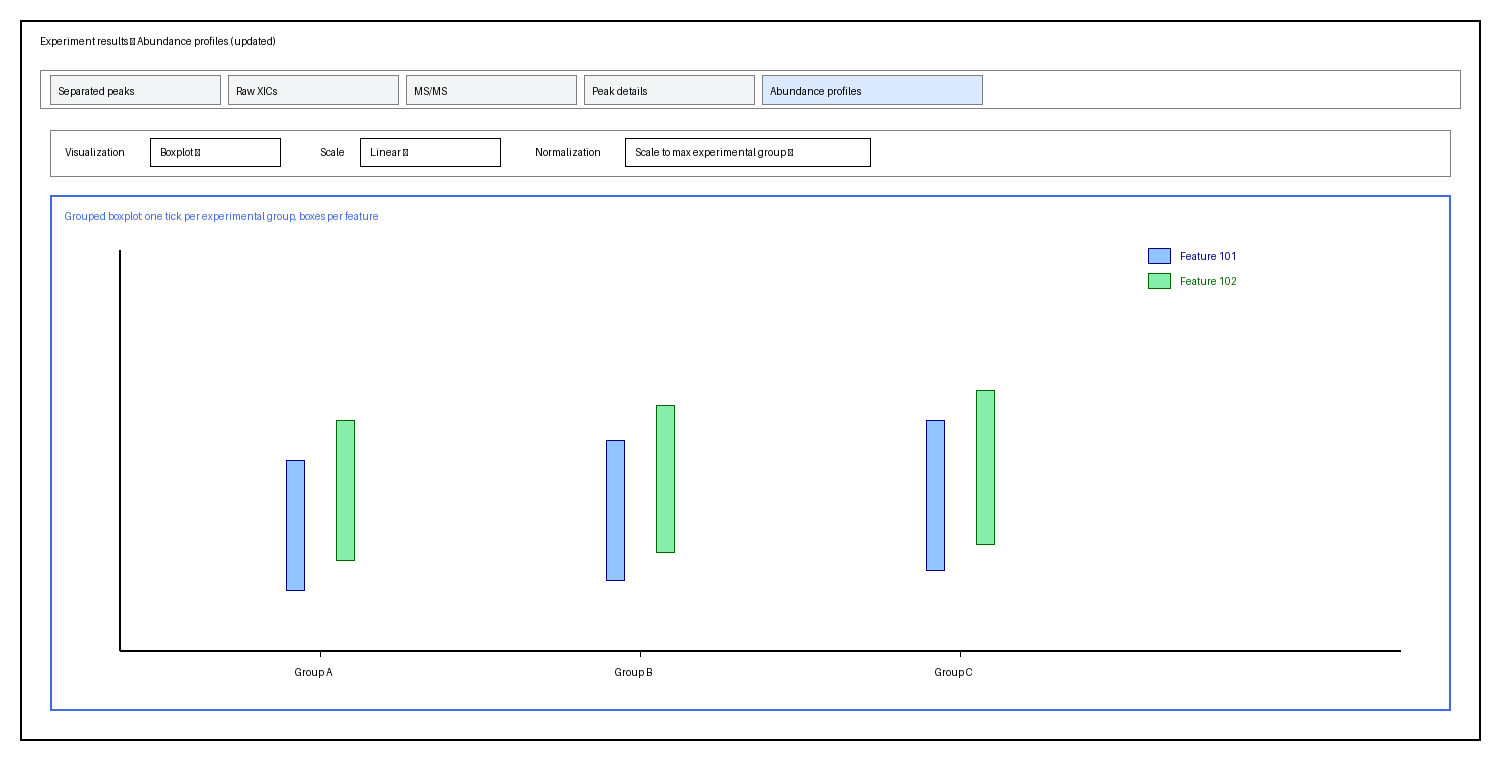
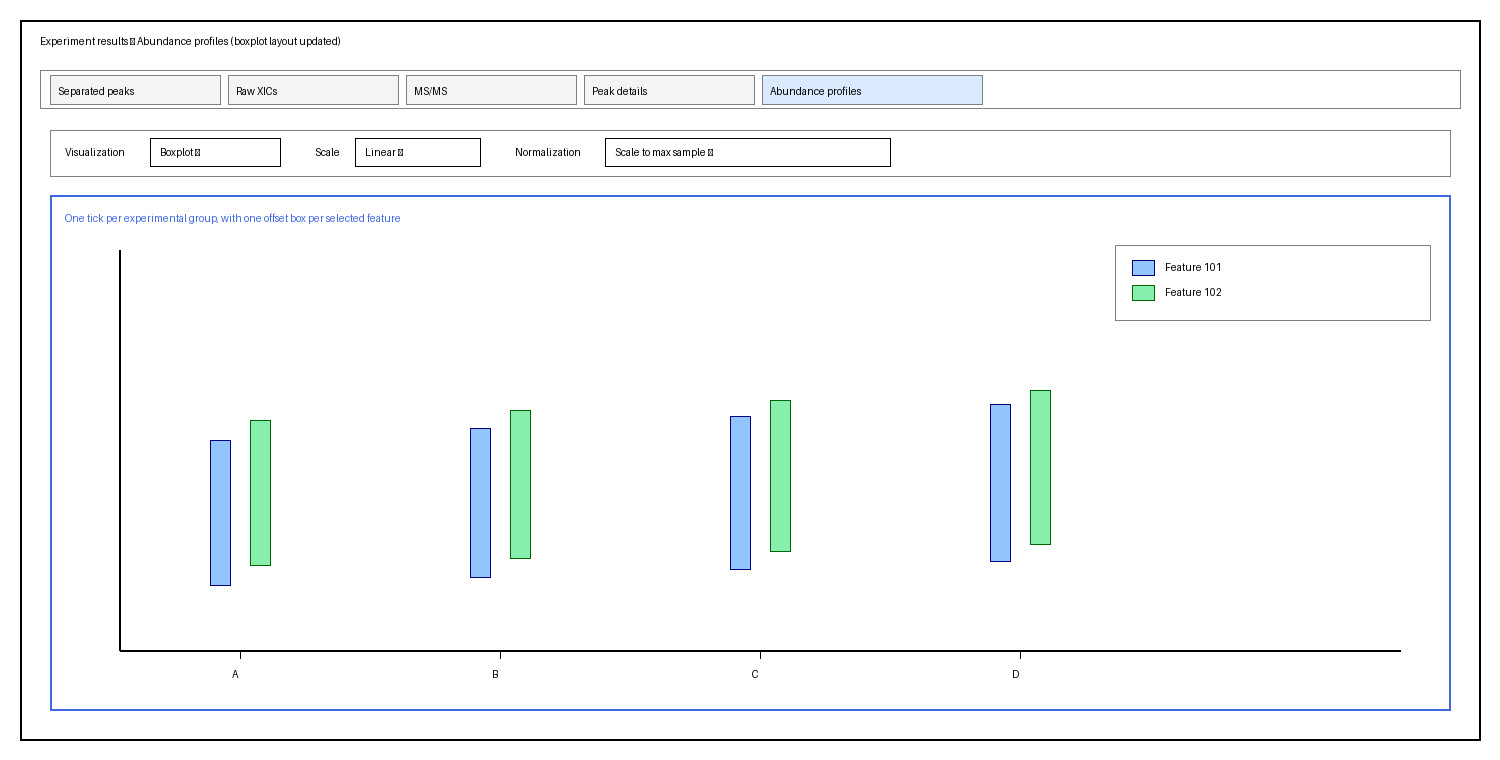
Refine post-reintegration grouping and boxplot grouping layout
Agent-Logs-Url: https://github.com/chrboku/MetExtract-II/sessions/ab6fb312-3468-4e96-b42f-736da2228c5d

diff --git a/src/MExtract.py b/src/MExtract.py
@@ -2333,12 +2333,14 @@ class mainWindow(QtWidgets.QMainWindow, Ui_MainWindow):
             box_colors = []
             legend_handles = []
             if len(feature_ids) > 0 and len(group_names) > 0:
-                box_width = 0.8 / max(1, len(feature_ids))
+                cluster_width = 0.75
+                slot_width = cluster_width / max(1, len(feature_ids))
+                box_width = slot_width * 0.8
                 for feature_index, feature_id in enumerate(feature_ids):
                     color = f"C{feature_index % 10}"
                     legend_handles.append(patches.Patch(facecolor=color, alpha=0.35, label=f"Feature {feature_id}"))
-                    offset = (feature_index - (len(feature_ids) - 1) / 2.0) * box_width
                     for group_index, group_name in enumerate(group_names):
+                        offset = (-cluster_width / 2.0) + (feature_index + 0.5) * slot_width
                         vals = []
                         for sample_name in samples_by_group.get(group_name, []):
                             key = (group_name, sample_name)
@@ -2354,7 +2356,7 @@ class mainWindow(QtWidgets.QMainWindow, Ui_MainWindow):
                             box_colors.append(color)
 
             if box_data:
-                bp = ax.boxplot(box_data, positions=positions, widths=0.8 / max(1, len(feature_sample_values)), patch_artist=True)
+                bp = ax.boxplot(box_data, positions=positions, widths=box_width, patch_artist=True)
                 for patch, c in zip(bp["boxes"], box_colors):
                     patch.set_facecolor(c)
                     patch.set_alpha(0.35)
@@ -3767,6 +3769,87 @@ class mainWindow(QtWidgets.QMainWindow, Ui_MainWindow):
             if self.terminateJobs:
                 return
 
+            convolution_input_sheet = "2_StatColumns"
+            annotation_input_sheet = "2_StatColumns"
+
+            # re-integrate missed peaks (run before grouping, if enabled)
+            if self.ui.integratedMissedPeaks.isChecked():
+                logging.info("\n\n##############################################################")
+                logging.info("Re-integrating of individual LC-HRMS results..")
+
+                pw = ProgressWrapper(min(len(files), cpus) + 1, showLog=False, parent=self)
+                pw.show()
+                pw.getCallingFunction()("text")("Integrating..")
+                pw.getCallingFunction()("header")("Integrating..")
+
+                try:
+                    # Reintegrate missed peaks in files
+                    fDict = {}
+                    for group in definedGroups:
+                        for grp in natSort(group.files):
+                            f = grp
+                            f = f.replace("\\", "/")
+                            fDict[f] = f[(f.rfind("/") + 1) : max(f.lower().rfind(".mzxml"), f.lower().rfind(".mzml"))]
+
+                    reIntegrateResultsFile(
+                        excel_file,
+                        "2_StatColumns",
+                        "4_Reintegrated",
+                        fDict,
+                        addPeakArea=bool(self.ui.checkBox_expPeakArea.checkState() == QtCore.Qt.Checked),
+                        addPeakAbundance=bool(self.ui.checkBox_expPeakApexIntensity.checkState() == QtCore.Qt.Checked),
+                        addPeakSNR=bool(self.ui.checkBox_expPeakSNR.checkState() == QtCore.Qt.Checked),
+                        ppm=self.ui.groupPpm.value(),
+                        maxRTShift=self.ui.integrationMaxTimeDifference.value(),
+                        scales=[
+                            self.ui.wavelet_minScale.value(),
+                            self.ui.wavelet_maxScale.value(),
+                        ],
+                        reintegrateIntensityCutoff=self.ui.reintegrateIntensityCutoff.value(),
+                        snrTH=self.ui.wavelet_SNRThreshold.value(),
+                        smoothingWindow=str(self.ui.eicSmoothingWindow.currentText()),
+                        smoothingWindowSize=self.ui.eicSmoothingWindowSize.value(),
+                        smoothingWindowPolynom=self.ui.smoothingPolynom_spinner.value(),
+                        positiveScanEvent=str(self.ui.positiveScanEvent.currentText()),
+                        negativeScanEvent=str(self.ui.negativeScanEvent.currentText()),
+                        pw=pw,
+                        selfObj=self,
+                        cpus=min(len(files), cpus),
+                        start=start,
+                        peak_filter_config=filter_config,
+                        peak_picker=picker,
+                    )
+                    convolution_input_sheet = "4_Reintegrated"
+                    annotation_input_sheet = "4_Reintegrated"
+
+                    # Log time used for bracketing
+                    elapsed = (time.time() - start) / 60.0
+                    hours = ""
+                    if elapsed >= 60.0:
+                        hours = "%d hours " % (elapsed // 60)
+                    mins = "%.2f mins" % (elapsed % 60.0)
+                    logging.info("Re-integrating finished (%s%s).." % (hours, mins))
+
+                except Exception as e:
+                    traceback.print_exc()
+                    logging.error(str(traceback))
+
+                    QtWidgets.QMessageBox.warning(
+                        self,
+                        "MetExtract",
+                        "Error during reintegrating files: '%s'" % str(e),
+                        QtWidgets.QMessageBox.Ok,
+                    )
+                    errorCount += 1
+                finally:
+                    pw.setSkipCallBack(True)
+                    pw.hide()
+                logging.info("##############################################################")
+
+            if self.terminateJobs:
+                pw.hide()
+                return
+
             # Calculate metabolite groups
             if self.ui.convoluteResults.isChecked():
                 logging.info("\n\n##############################################################")
@@ -3838,7 +3921,7 @@ class mainWindow(QtWidgets.QMainWindow, Ui_MainWindow):
                         _target=calculateMetaboliteGroups,
                         file=excel_file,
                         toFile=excel_file,
-                        sheet_name="2_StatColumns",
+                        sheet_name=convolution_input_sheet,
                         new_sheet_name="3_Convoluted",
                         groups=definedGroups,
                         eicPPM=self.ui.wavelet_EICppm.value(),
@@ -3900,6 +3983,7 @@ class mainWindow(QtWidgets.QMainWindow, Ui_MainWindow):
                         return
                     else:
                         logging.info("Convoluting feature pairs finished (%s%s).." % (hours, mins))
+                        annotation_input_sheet = "3_Convoluted"
 
                 except Exception as ex:
                     traceback.print_exc()
@@ -3920,81 +4004,6 @@ class mainWindow(QtWidgets.QMainWindow, Ui_MainWindow):
             pw.hide()
 
             if self.terminateJobs:
-                return
-
-            # re-integrate missed peaks
-            if self.ui.integratedMissedPeaks.isChecked():
-                logging.info("\n\n##############################################################")
-                logging.info("Re-integrating of individual LC-HRMS results..")
-
-                pw = ProgressWrapper(min(len(files), cpus) + 1, showLog=False, parent=self)
-                pw.show()
-                pw.getCallingFunction()("text")("Integrating..")
-                pw.getCallingFunction()("header")("Integrating..")
-
-                try:
-                    # Reintegrate missed peaks in files
-                    fDict = {}
-                    for group in definedGroups:
-                        for grp in natSort(group.files):
-                            f = grp
-                            f = f.replace("\\", "/")
-                            fDict[f] = f[(f.rfind("/") + 1) : max(f.lower().rfind(".mzxml"), f.lower().rfind(".mzml"))]
-
-                    reIntegrateResultsFile(
-                        excel_file,
-                        "3_Convoluted",
-                        "4_Reintegrated",
-                        fDict,
-                        addPeakArea=bool(self.ui.checkBox_expPeakArea.checkState() == QtCore.Qt.Checked),
-                        addPeakAbundance=bool(self.ui.checkBox_expPeakApexIntensity.checkState() == QtCore.Qt.Checked),
-                        addPeakSNR=bool(self.ui.checkBox_expPeakSNR.checkState() == QtCore.Qt.Checked),
-                        ppm=self.ui.groupPpm.value(),
-                        maxRTShift=self.ui.integrationMaxTimeDifference.value(),
-                        scales=[
-                            self.ui.wavelet_minScale.value(),
-                            self.ui.wavelet_maxScale.value(),
-                        ],
-                        reintegrateIntensityCutoff=self.ui.reintegrateIntensityCutoff.value(),
-                        snrTH=self.ui.wavelet_SNRThreshold.value(),
-                        smoothingWindow=str(self.ui.eicSmoothingWindow.currentText()),
-                        smoothingWindowSize=self.ui.eicSmoothingWindowSize.value(),
-                        smoothingWindowPolynom=self.ui.smoothingPolynom_spinner.value(),
-                        positiveScanEvent=str(self.ui.positiveScanEvent.currentText()),
-                        negativeScanEvent=str(self.ui.negativeScanEvent.currentText()),
-                        pw=pw,
-                        selfObj=self,
-                        cpus=min(len(files), cpus),
-                        start=start,
-                        peak_filter_config=filter_config,
-                        peak_picker=picker,
-                    )
-                    # Log time used for bracketing
-                    elapsed = (time.time() - start) / 60.0
-                    hours = ""
-                    if elapsed >= 60.0:
-                        hours = "%d hours " % (elapsed // 60)
-                    mins = "%.2f mins" % (elapsed % 60.0)
-                    logging.info("Re-integrating finished (%s%s).." % (hours, mins))
-
-                except Exception as e:
-                    traceback.print_exc()
-                    logging.error(str(traceback))
-
-                    QtWidgets.QMessageBox.warning(
-                        self,
-                        "MetExtract",
-                        "Error during reintegrating files: '%s'" % str(e),
-                        QtWidgets.QMessageBox.Ok,
-                    )
-                    errorCount += 1
-                finally:
-                    pw.setSkipCallBack(True)
-                    pw.hide()
-                logging.info("##############################################################")
-
-            if self.terminateJobs:
-                pw.hide()
                 return
 
         annotationColumns = []
@@ -4037,7 +4046,7 @@ class mainWindow(QtWidgets.QMainWindow, Ui_MainWindow):
                 try:
                     addedColumns = annotateResultMatrix.annotateWithDatabases(
                         file=excel_file,
-                        sheet_name="4_Reintegrated",
+                        sheet_name=annotation_input_sheet,
                         new_sheet_name="5_Annotated",
                         dbFiles=dbFiles,
                         useAdducts=useAdducts,

diff --git a/src/metaboliteGrouping.py b/src/metaboliteGrouping.py
@@ -18,7 +18,14 @@ def _pearson(values_a, values_b):
     if len(values_a) != len(values_b) or len(values_a) < 2:
         return None
     if np.std(values_a) == 0 or np.std(values_b) == 0:
-        return None
+        max_a = max(values_a) if len(values_a) > 0 else 0.0
+        max_b = max(values_b) if len(values_b) > 0 else 0.0
+        if max_a > 0 and max_b > 0:
+            norm_a = [a / max_a for a in values_a]
+            norm_b = [b / max_b for b in values_b]
+            if np.allclose(norm_a, norm_b, rtol=1e-6, atol=1e-9):
+                return 1.0
+        return 0.0
     corr = np.corrcoef(values_a, values_b)[0, 1]
     if np.isnan(corr):
         return None
@@ -79,45 +86,59 @@ def _connected_components(group_ids, adjacency):
     return components
 
 
-def _split_component_by_connection_rate(component_ids, adjacency, min_connection_rate):
+def _avg_similarity_to_group(node, group, similarities):
+    vals = []
+    for other in group:
+        if node == other:
+            continue
+        vals.append(similarities.get(node, {}).get(other, 0.0))
+    if len(vals) == 0:
+        return 0.0
+    return float(sum(vals) / len(vals))
+
+
+def _connection_rate_to_group(node, group, adjacency):
+    if len(group) == 0:
+        return 0.0
+    degree = sum(1 for neighbor in adjacency.get(node, set()) if neighbor in group)
+    return float(degree) / float(len(group))
+
+
+def _split_component_by_connection_rate(component_ids, adjacency, similarities, min_connection_rate):
     if len(component_ids) <= 2:
         return [sorted(component_ids)]
 
     component_set = set(component_ids)
-    changed = True
-    while changed and len(component_set) > 2:
-        changed = False
-        min_required_connections = max(0.0, min_connection_rate) * (len(component_set) - 1)
-        to_remove = set()
-        for node in component_set:
-            degree = sum(1 for neighbor in adjacency.get(node, set()) if neighbor in component_set)
-            if degree < min_required_connections:
-                to_remove.add(node)
-        if to_remove:
-            component_set -= to_remove
-            changed = True
+    min_required_connections = max(0.0, min_connection_rate) * (len(component_set) - 1)
+    dense_nodes = set()
+    for node in component_set:
+        degree = sum(1 for neighbor in adjacency.get(node, set()) if neighbor in component_set)
+        if degree >= min_required_connections:
+            dense_nodes.add(node)
 
-    if not component_set:
-        return [[feature_id] for feature_id in sorted(component_ids)]
+    # avoid over-splitting if no dense core can be formed
+    if len(dense_nodes) == 0:
+        return [sorted(component_ids)]
 
-    result = []
-    kept_components = _connected_components(component_set, adjacency)
-    for kept_component in kept_components:
-        if kept_component == set(component_ids):
-            result.append(sorted(kept_component))
+    dense_groups = _connected_components(dense_nodes, adjacency)
+    groups = [set(group) for group in dense_groups]
+
+    remaining = sorted(component_set - dense_nodes)
+    for node in remaining:
+        best_group = None
+        best_score = None
+        for group in groups:
+            if _connection_rate_to_group(node, group, adjacency) >= min_connection_rate:
+                score = _avg_similarity_to_group(node, group, similarities)
+                if best_score is None or score > best_score:
+                    best_group = group
+                    best_score = score
+        if best_group is not None:
+            best_group.add(node)
         else:
-            result.extend(_split_component_by_connection_rate(sorted(kept_component), adjacency, min_connection_rate))
+            groups.append({node})
 
-    removed = set(component_ids) - component_set
-    if removed:
-        removed_components = _connected_components(removed, adjacency)
-        for removed_component in removed_components:
-            if len(removed_component) <= 1:
-                result.append(sorted(removed_component))
-            else:
-                result.extend(_split_component_by_connection_rate(sorted(removed_component), adjacency, min_connection_rate))
-
-    return result
+    return [sorted(group) for group in groups]
 
 
 def split_group_by_relative_abundance(group_ids, abundance_vectors, min_peak_correlation, min_connection_rate):
@@ -150,6 +171,6 @@ def split_group_by_relative_abundance(group_ids, abundance_vectors, min_peak_cor
     components = _connected_components(group_ids, adjacency)
     refined_groups = []
     for component in components:
-        refined_groups.extend(_split_component_by_connection_rate(sorted(component), adjacency, min_connection_rate))
+        refined_groups.extend(_split_component_by_connection_rate(sorted(component), adjacency, similarities, min_connection_rate))
 
     return sorted([sorted(group) for group in refined_groups], key=lambda group: (len(group), group), reverse=True)

diff --git a/tests/test_metabolite_grouping.py b/tests/test_metabolite_grouping.py
@@ -72,3 +72,18 @@ def test_split_group_by_relative_abundance_ignores_mismatched_zero_presence():
     )
 
     assert _normalize_groups(groups) == [[1, 2], [3]]
+
+
+def test_split_group_by_relative_abundance_keeps_constant_proportional_profiles_together():
+    groups = split_group_by_relative_abundance(
+        [1, 2, 3],
+        {
+            1: [10, 10, 0, 0],
+            2: [20, 20, 0, 0],
+            3: [0, 0, 30, 30],
+        },
+        min_peak_correlation=0.8,
+        min_connection_rate=0.6,
+    )
+
+    assert _normalize_groups(groups) == [[1, 2], [3]]
